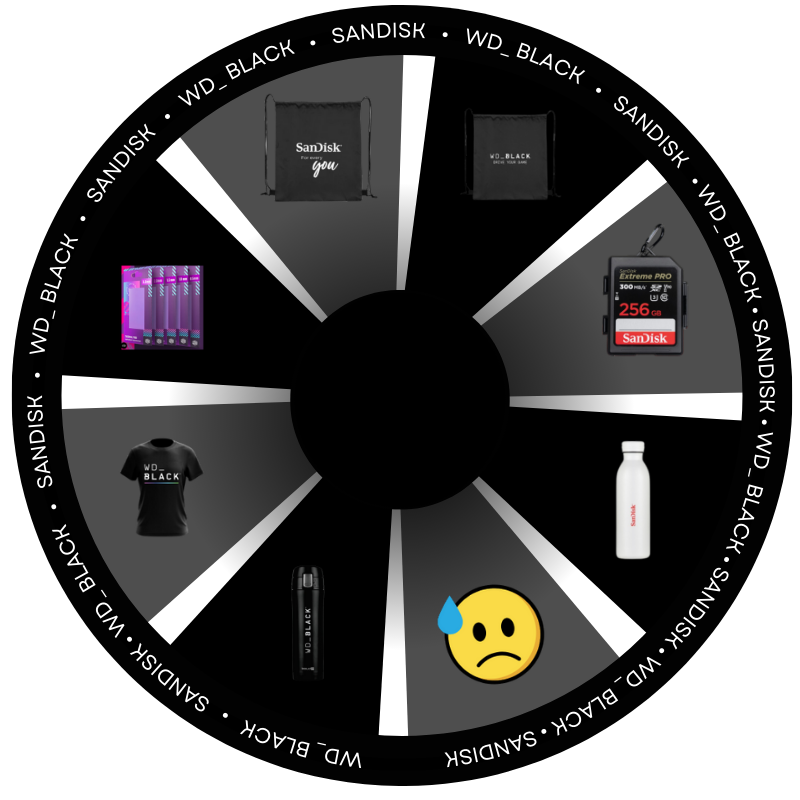
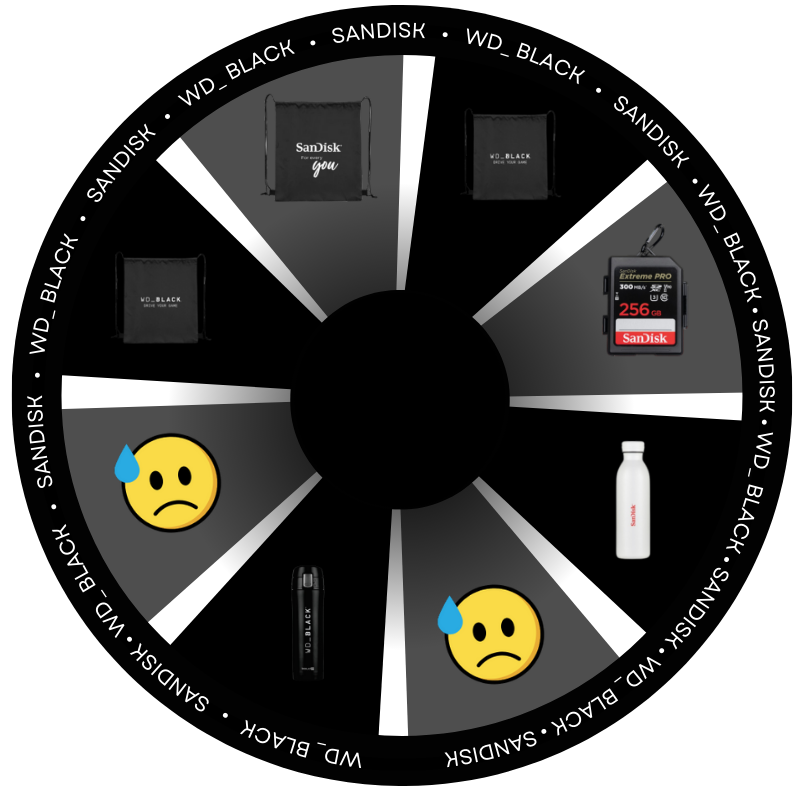
sss

Changed region(s): [[0.125, 0.5312, 0.2812, 0.6875], [0.125, 0.3125, 0.2812, 0.4375]]

diff --git a/index.html b/index.html
@@ -374,8 +374,8 @@
             // Counter clockwise
             const symbolSegments = {
                 1: "#6\nParabéns! Você ganhou uma Bag San Disk Exclusiva",
-                2: "#7\nParabéns! Você ganhou um Brinde da Cooler Master",
-                3: "#4\nParabéns! Você ganhou uma Camiseta Exclusiva WD_ Black",
+                2: "#0\nPoxa! Não foi dessa vez!",
+                3: "#0\nPoxa! Não foi dessa vez!",
                 4: "#1\nParabéns! Você ganhou um Squezze WD_ Black",
                 5: "#0\nPoxa! Não foi dessa vez!",
                 6: "#2\nParabéns! Você ganhou uma Garrafa San Disk",
@@ -385,8 +385,8 @@
         
             const segmentCounts = {
                 "#6\nParabéns! Você ganhou uma Bag San Disk Exclusiva": () => bagsandiskReleasedCount++,
-                "#7\nParabéns! Você ganhou um Brinde da Cooler Master": () => brindeReleasedCount++,
-                "#4\nParabéns! Você ganhou uma Camiseta Exclusiva WD_ Black": () => camisetaReleasedCount++,
+                "#0\nPoxa! Não foi dessa vez!": () => brindeReleasedCount++,
+                "#0\nPoxa! Não foi dessa vez!": () => camisetaReleasedCount++,
                 "#1\nParabéns! Você ganhou um Squezze WD_ Black": () => squezzeReleasedCount++,
                 "#0\nPoxa! Não foi dessa vez!": () => {},
                 "#2\nParabéns! Você ganhou uma Garrafa San Disk": () => garrafaReleasedCount++,
@@ -477,11 +477,11 @@
                     "#0\nPoxa! Não foi dessa vez!": 'assets/sad.png',
                     "#2\nParabéns! Você ganhou uma Garrafa San Disk": 'assets/garrafa.png',
                     "#3\nParabéns! Você ganhou um Cartão de Memória San Disk": 'assets/cartao_memoria.png',
-                    "#4\nParabéns! Você ganhou uma Camiseta Exclusiva WD_ Black": 'assets/camiseta.png',
+                    "#0\nPoxa! Não foi dessa vez!": 'assets/sad.png',
                     "#1\nParabéns! Você ganhou um Squezze WD_ Black": 'assets/squezze.png',
                     "#5\nParabéns! Você ganhou uma Bag WD_ Black Exclusiva": 'assets/bag_wd.png',
                     "#6\nParabéns! Você ganhou uma Bag San Disk Exclusiva": 'assets/bag_sandisk.png',
-                    "#7\nParabéns! Você ganhou um Brinde da Cooler Master": 'assets/brinde.png'
+                    "#0\nPoxa! Não foi dessa vez!": 'assets/sad.png'
                 };
         
                 if (images[result]) {
@@ -547,34 +547,7 @@
                     </svg>
                 </div>
             </div>
-            <div class="boxpremios">
-
-                <div class="card">
-                    <p class="title2">Brinde Cooler Master</p>
-                    <img src="assets/brinde.png" alt="">
-                    <defs>
-                        <linearGradient id="paint0_linear_501_142" x1="0" y1="0" x2="96.1684" y2="87.6201"
-                            gradientUnits="userSpaceOnUse">
-                            <stop stop-color="#BF66FF"></stop>
-                            <stop offset="0.510417" stop-color="#6248FF"></stop>
-                            <stop offset="1" stop-color="#00DDEB"></stop>
-                        </linearGradient>
-                        <linearGradient id="paint1_linear_501_142" x1="0" y1="0" x2="96.1684" y2="87.6201"
-                            gradientUnits="userSpaceOnUse">
-                            <stop stop-color="#BF66FF"></stop>
-                            <stop offset="0.510417" stop-color="#6248FF"></stop>
-                            <stop offset="1" stop-color="#00DDEB"></stop>
-                        </linearGradient>
-                        <linearGradient id="paint2_linear_501_142" x1="0" y1="0" x2="96.1684" y2="87.6201"
-                            gradientUnits="userSpaceOnUse">
-                            <stop stop-color="#BF66FF"></stop>
-                            <stop offset="0.510417" stop-color="#6248FF"></stop>
-                            <stop offset="1" stop-color="#00DDEB"></stop>
-                        </linearGradient>
-                    </defs>
-                    </svg>
-                </div>
-            </div>
+          
             <div class="boxpremios">
                 <div class="card">
                     <p class="title2">Squezze Exclusivo WD_ Black</p>
@@ -664,34 +637,7 @@
 
 
             </div>
-            <div class="boxpremios">
-
-                <div class="card">
-                     <p class="title2">Camiseta Exclusiva WD_ Black</p>
-                    <img src="assets/camiseta.png" alt="">
-                    <defs>
-                        <linearGradient id="paint0_linear_501_142" x1="0" y1="0" x2="96.1684" y2="87.6201"
-                            gradientUnits="userSpaceOnUse">
-                            <stop stop-color="#BF66FF"></stop>
-                            <stop offset="0.510417" stop-color="#6248FF"></stop>
-                            <stop offset="1" stop-color="#00DDEB"></stop>
-                        </linearGradient>
-                        <linearGradient id="paint1_linear_501_142" x1="0" y1="0" x2="96.1684" y2="87.6201"
-                            gradientUnits="userSpaceOnUse">
-                            <stop stop-color="#BF66FF"></stop>
-                            <stop offset="0.510417" stop-color="#6248FF"></stop>
-                            <stop offset="1" stop-color="#00DDEB"></stop>
-                        </linearGradient>
-                        <linearGradient id="paint2_linear_501_142" x1="0" y1="0" x2="96.1684" y2="87.6201"
-                            gradientUnits="userSpaceOnUse">
-                            <stop stop-color="#BF66FF"></stop>
-                            <stop offset="0.510417" stop-color="#6248FF"></stop>
-                            <stop offset="1" stop-color="#00DDEB"></stop>
-                        </linearGradient>
-                    </defs>
-                    </svg>
-                </div>
-            </div>
+          
             <div class="boxpremios">
 
                 <div class="card">
